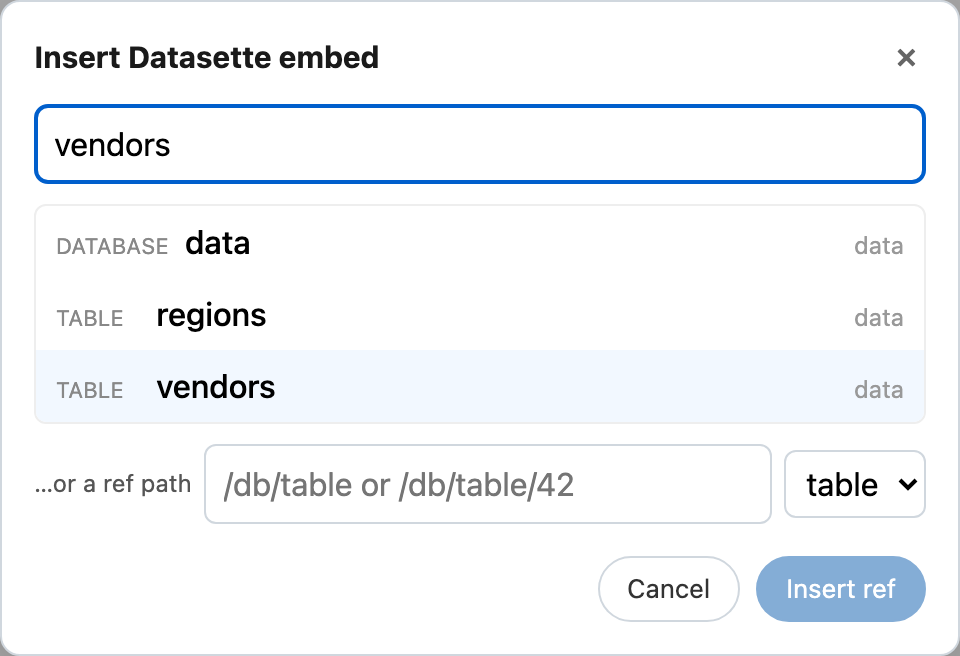
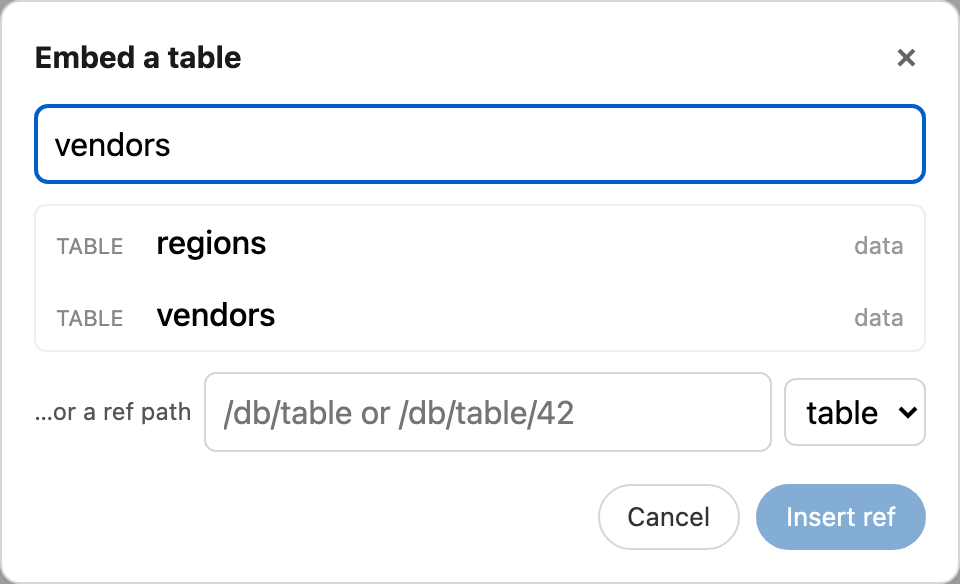
Split the native Datasette embed slash command into table/database
The `/` menu's Datasette section is reordered and the single "Datasette
embed" entry is split into "Embed a table" and "Embed a database". Each
opens the shared picker with a new kind filter (table lists tables+views,
database lists databases only), reflected in the dialog title/placeholder.
Group order is now: SQL query, Embed a table, Embed a database, Inline
value, Data source. The toolbar dropdown path is unchanged (no filter).

Provider (embeds group) sources still flow through the shared
`embedInsertSources()`; only the native entry diverges for the `/` menu.

Screenshots: add slash-menu-datasette / slash-menu-embeds (menu scrolled
to each section via a keyboard-highlight helper that survives the popup's
per-update DOM rebuild), plus a throwaway paper_embed_provider shot-plugin
so the Embeds section has content. embed-picker now triggers via `/embed`
(the old `/datasette` now selects the SQL block).

diff --git a/frontend/src/lib/slashMenu.ts b/frontend/src/lib/slashMenu.ts
@@ -387,38 +387,37 @@ export function slashMenuPopupPlugin(commands: SlashCommand[]): Plugin {
   });
 }
 
+/**
+ * Restricts the core embed picker to one resource kind. The `/` menu splits the
+ * native Datasette embed into two commands ("Embed a table" / "Embed a
+ * database") that pass this so the dialog only lists matching resources;
+ * omitted (toolbar dropdown, provider sources) lists everything.
+ */
+export type EmbedKindFilter = "table" | "database";
+
 export interface SlashCommandCallbacks {
   /** Open the image insert dialog (PaperApp-owned Svelte component). */
   openImageDialog?: () => void;
   /**
    * Open the embed picker dialog (PaperApp-owned). `sourceId` selects a
    * third-party provider source; omitted/undefined = the core Datasette source.
+   * `filter` restricts the core picker to tables/views or databases.
    */
-  openDatasetteEmbed?: (sourceId?: string) => void;
+  openDatasetteEmbed?: (sourceId?: string, filter?: EmbedKindFilter) => void;
 }
 
 /**
- * Map one shared `EmbedInsertSource` (embedProviders.ts) to its `/`-menu
- * command. The native Datasette source (id undefined) keeps its historical id
- * `block_embed` / keywords / `datasette` group; provider sources get an
- * `embed_source:<id>` id, the `embeds` group, and the `icon in TOOLBAR_ICONS`
- * fallback. The source *set* (native + providers, in order) is owned by
- * `embedInsertSources()`; only these slash-menu-specific fields live here.
+ * Map one third-party provider `EmbedInsertSource` (embedProviders.ts) to its
+ * `/`-menu command: an `embed_source:<id>` id, the `embeds` group, and the
+ * `icon in TOOLBAR_ICONS` fallback. The native Datasette embed is NOT routed
+ * through here — the `/` menu owns two dedicated table/database commands
+ * (buildSlashCommands, datasette group). Callers filter out the native
+ * `embedInsertSources()` entry (undefined id) before calling this.
  */
 function embedSlashCommand(
-  source: EmbedInsertSource,
+  source: EmbedInsertSource & { id: string },
   cb: SlashCommandCallbacks,
 ): SlashCommand {
-  if (source.id === undefined) {
-    return {
-      id: "block_embed",
-      label: source.label,
-      keywords: ["datasette", "table", "data", "embed", "database", "query"],
-      icon: source.icon && source.icon in TOOLBAR_ICONS ? source.icon : "database",
-      group: "datasette",
-      run: () => cb.openDatasetteEmbed?.(),
-    };
-  }
   const id = source.id;
   return {
     id: `embed_source:${id}`,
@@ -436,11 +435,11 @@ function embedSlashCommand(
  * without its bundle being loaded. Picking a source opens the dialog, which
  * lazy-injects that provider's bundle before searching (see embedProviders.ts /
  * DatasetteEmbedDialog). Drops the native first entry of `embedInsertSources()`
- * — the registry's hardcoded `block_embed` covers that.
+ * — the two dedicated table/database commands (buildSlashCommands) cover that.
  */
 export function providerSlashCommands(cb: SlashCommandCallbacks): SlashCommand[] {
   return embedInsertSources()
-    .filter((source) => source.id !== undefined)
+    .filter((source): source is EmbedInsertSource & { id: string } => source.id !== undefined)
     .map((source) => embedSlashCommand(source, cb));
 }
 
@@ -527,14 +526,24 @@ export function buildSlashCommands(cb: SlashCommandCallbacks = {}): SlashCommand
       // header <select> lets the user change it.
       run: runCommand(insertSqlBlock()),
     },
+    // The native Datasette embed, split into two picker entries — each opens the
+    // shared dialog filtered to its resource kind. Provider sources still come
+    // from the `providerSlashCommands` spread below (embeds group).
     {
-      id: "source",
-      label: "Data source",
-      keywords: ["source", "sql", "query", "value", "metric", "data", "inline"],
+      id: "block_embed_table",
+      label: "Embed a table",
+      keywords: ["datasette", "table", "view", "data", "embed", "query"],
+      icon: "table",
+      group: "datasette",
+      run: () => cb.openDatasetteEmbed?.(undefined, "table"),
+    },
+    {
+      id: "block_embed_database",
+      label: "Embed a database",
+      keywords: ["datasette", "database", "db", "data", "embed"],
       icon: "database",
       group: "datasette",
-      // A named query that inline ${{name.column}} values reference.
-      run: runCommand(insertSource()),
+      run: () => cb.openDatasetteEmbed?.(undefined, "database"),
     },
     {
       id: "value",
@@ -547,6 +556,15 @@ export function buildSlashCommands(cb: SlashCommandCallbacks = {}): SlashCommand
         view.dispatch(view.state.tr.insertText("${{"));
         view.focus();
       },
+    },
+    {
+      id: "source",
+      label: "Data source",
+      keywords: ["source", "sql", "query", "value", "metric", "data", "inline"],
+      icon: "database",
+      group: "datasette",
+      // A named query that inline ${{name.column}} values reference.
+      run: runCommand(insertSource()),
     },
     {
       id: "table",
@@ -591,9 +609,10 @@ export function buildSlashCommands(cb: SlashCommandCallbacks = {}): SlashCommand
       group: "media",
       run: () => cb.openImageDialog?.(),
     },
-    // Native Datasette + every provider source — same shared list the toolbar
-    // dropdown uses (embedInsertSources). The native entry is always first.
-    ...embedInsertSources().map((source) => embedSlashCommand(source, cb)),
+    // Every third-party provider source (embeds group). The native Datasette
+    // embed is handled by the two explicit datasette-group commands above, so
+    // this drops the native first entry of `embedInsertSources()`.
+    ...providerSlashCommands(cb),
   ];
   return commands;
 }

diff --git a/frontend/src/lib/DatasetteEmbedDialog.svelte b/frontend/src/lib/DatasetteEmbedDialog.svelte
@@ -22,10 +22,15 @@
   let {
     open = $bindable(false),
     source = undefined,
+    filter = undefined,
     oninsert,
   }: {
     open?: boolean;
     source?: string;
+    // Restricts the core Datasette picker to one resource kind: "table" lists
+    // tables + views, "database" lists databases. Ignored for provider sources
+    // (they own their own search); undefined lists everything.
+    filter?: "table" | "database";
     oninsert: (ref: string, mode: string) => void;
   } = $props();
 
@@ -66,7 +71,20 @@
       ? `Insert ${sourceSpec.label}`
       : source
         ? `Insert ${sourceLabel}`
-        : "Insert Datasette embed",
+        : filter === "database"
+          ? "Embed a database"
+          : filter === "table"
+            ? "Embed a table"
+            : "Insert Datasette embed",
+  );
+
+  // Core-picker search placeholder, narrowed to the active kind filter.
+  const corePlaceholder = $derived(
+    filter === "database"
+      ? "Search databases…"
+      : filter === "table"
+        ? "Search tables, views…"
+        : "Search tables, views, databases…",
   );
 
   function reset() {
@@ -129,12 +147,22 @@
       return;
     }
     const hits = await searchResources(q, 20);
-    results = hits.map((h) => ({
-      ref: h.ref,
-      label: h.label,
-      kind: h.kind,
-      secondary: h.db,
-    }));
+    results = hits
+      .filter((h) => matchesFilter(h.kind))
+      .map((h) => ({
+        ref: h.ref,
+        label: h.label,
+        kind: h.kind,
+        secondary: h.db,
+      }));
+  }
+
+  // "table" keeps tables + views (both embed as a table); "database" keeps only
+  // databases; undefined keeps everything. Only the core picker is filtered.
+  function matchesFilter(kind: string): boolean {
+    if (!filter) return true;
+    if (filter === "database") return kind === "database";
+    return kind === "table" || kind === "view";
   }
 
   function onQueryInput() {
@@ -181,7 +209,7 @@
   <input
     class="ds-embed-search"
     type="text"
-    placeholder={sourceSpec ? `Search ${sourceSpec.label}…` : "Search tables, views, databases…"}
+    placeholder={sourceSpec ? `Search ${sourceSpec.label}…` : corePlaceholder}
     bind:value={query}
     oninput={onQueryInput}
   />

diff --git a/frontend/src/lib/__tests__/slashMenu.test.ts b/frontend/src/lib/__tests__/slashMenu.test.ts
@@ -143,7 +143,8 @@ describe("section taxonomy (group tags)", () => {
     expect(byId.get("table")).toBe("media");
     expect(byId.get("image")).toBe("media");
     expect(byId.get("sql_block")).toBe("datasette");
-    expect(byId.get("block_embed")).toBe("datasette");
+    expect(byId.get("block_embed_table")).toBe("datasette");
+    expect(byId.get("block_embed_database")).toBe("datasette");
   });
 
   it("tags provider sources with the embeds group", () => {
@@ -236,9 +237,11 @@ describe("commitSlashSelection", () => {
   it("runs a dialog-backed command via its callback", () => {
     const openDatasetteEmbed = vi.fn();
     const cmds = buildSlashCommands({ openDatasetteEmbed });
-    const { view } = fakeView(stateWith([schema.node("paragraph")], 1, "/datasette", cmds));
+    // "/embed" matches the two native embed commands; index 0 = "Embed a table".
+    const { view } = fakeView(stateWith([schema.node("paragraph")], 1, "/embed", cmds));
     commitSlashSelection(cmds)(view.state, view.dispatch, view);
     expect(openDatasetteEmbed).toHaveBeenCalledTimes(1);
+    expect(openDatasetteEmbed).toHaveBeenCalledWith(undefined, "table");
   });
 
   it("inserts a table from the table command", () => {
@@ -284,6 +287,27 @@ describe("inline-value slash commands", () => {
     expect(filterSlashCommands(commands, state, "metric").some((c) => c.id === "value")).toBe(
       true,
     );
+  });
+});
+
+describe("datasette group ordering + native embed split", () => {
+  it("orders the datasette group: SQL, embed table, embed database, value, source", () => {
+    const ids = commands.filter((c) => c.group === "datasette").map((c) => c.id);
+    expect(ids).toEqual([
+      "sql_block",
+      "block_embed_table",
+      "block_embed_database",
+      "value",
+      "source",
+    ]);
+  });
+
+  it("Embed a database opens the core picker filtered to databases", () => {
+    const openDatasetteEmbed = vi.fn();
+    const cmds = buildSlashCommands({ openDatasetteEmbed });
+    const cmd = cmds.find((c) => c.id === "block_embed_database")!;
+    cmd.run({} as unknown as EditorView);
+    expect(openDatasetteEmbed).toHaveBeenCalledWith(undefined, "database");
   });
 });
 

diff --git a/frontend/src/lib/PaperApp.svelte b/frontend/src/lib/PaperApp.svelte
@@ -17,6 +17,7 @@
   import type { SourceStore } from "./sourceStore";
   import ImageDialog from "./ImageDialog.svelte";
   import DatasetteEmbedDialog from "./DatasetteEmbedDialog.svelte";
+  import type { EmbedKindFilter } from "./slashMenu";
   import CreatePageDialog from "./CreatePageDialog.svelte";
   import { insertImage } from "./image";
   import { insertDatasetteEmbed } from "./datasetteEmbed";
@@ -31,6 +32,9 @@
   // Which embed source the picker is scoped to: undefined = core Datasette,
   // otherwise a third-party provider source id.
   let embedSource = $state<string | undefined>(undefined);
+  // Restricts the core picker to one resource kind ("table" / "database"), set
+  // by the `/` menu's split embed commands; undefined = list everything.
+  let embedFilter = $state<EmbedKindFilter | undefined>(undefined);
   // Create-page dialog, driven by the `[[`-autocomplete's "Create … page"
   // row. `createResolver` bridges the imperative editor flow (which awaits a
   // doc id) to the declarative dialog: onCreatePage opens it and parks a
@@ -111,8 +115,9 @@
         onInsertImage: () => {
           imageDialogOpen = true;
         },
-        onInsertDatasetteEmbed: (sourceId) => {
+        onInsertDatasetteEmbed: (sourceId, filter) => {
           embedSource = sourceId;
+          embedFilter = filter;
           embedDialogOpen = true;
         },
         onCreatePage,
@@ -286,6 +291,7 @@
       onInsertImage={() => (imageDialogOpen = true)}
       onInsertEmbed={(sourceId) => {
         embedSource = sourceId;
+        embedFilter = undefined;
         embedDialogOpen = true;
       }}
     />
@@ -295,6 +301,7 @@
   <DatasetteEmbedDialog
     bind:open={embedDialogOpen}
     source={embedSource}
+    filter={embedFilter}
     oninsert={onEmbedInsert}
   />
   <CreatePageDialog

diff --git a/frontend/src/lib/collab.ts b/frontend/src/lib/collab.ts
@@ -88,6 +88,7 @@ import {
   slashMenuPopupPlugin,
   slashKeymap,
   type SlashCommand,
+  type EmbedKindFilter,
 } from "./slashMenu";
 import {
   cursorReporterPlugin,
@@ -202,11 +203,12 @@ export interface ConnectionOpts {
   onInsertImage?: () => void;
   /**
    * Open the embed picker dialog — invoked by the `/` slash menu's
-   * "Datasette embed" command and any third-party provider source commands
-   * (PaperApp-owned Svelte component). `sourceId` selects a provider source;
-   * omitted = the core Datasette source.
+   * "Embed a table" / "Embed a database" commands and any third-party provider
+   * source commands (PaperApp-owned Svelte component). `sourceId` selects a
+   * provider source; omitted = the core Datasette source. `filter` restricts the
+   * core picker to tables/views or databases.
    */
-  onInsertDatasetteEmbed?: (sourceId?: string) => void;
+  onInsertDatasetteEmbed?: (sourceId?: string, filter?: EmbedKindFilter) => void;
   /**
    * Create a new paper titled `title` from the `[[`-autocomplete's
    * "Create … page" row. The host owns the dialog + the
@@ -870,7 +872,8 @@ export class EditorConnection {
     this.sourceStore = new SourceStore();
     this.slashCommands = buildSlashCommands({
       openImageDialog: () => this.opts.onInsertImage?.(),
-      openDatasetteEmbed: (sourceId) => this.opts.onInsertDatasetteEmbed?.(sourceId),
+      openDatasetteEmbed: (sourceId, filter) =>
+        this.opts.onInsertDatasetteEmbed?.(sourceId, filter),
     });
     this.installNetworkListeners();
     this.start();

diff --git a/frontend/scripts/shot-plugins/embed_provider.py b/frontend/scripts/shot-plugins/embed_provider.py
@@ -1,0 +1,34 @@
+"""Throwaway third-party embed provider for the screenshot harness.
+
+Populates the `/` slash menu's "Embeds" section (and the toolbar embed
+dropdown) with example provider sources so the `slash-menu-embeds` shot has
+content to capture. Loaded via `datasette --plugins-dir` alongside the actor
+display-name plugin. NOT shipped — screenshot/dev use only.
+
+Only the manifest's `sources` matter here: the `/` menu lists them straight
+from `page_data` before any bundle loads (embedProviders.ts). The shots only
+*display* the menu — they never open this provider's picker — so
+`frontend_assets` returns nothing (no bundle to serve).
+"""
+
+from datasette import hookimpl
+
+
+class _ShotEmbedProvider:
+    kind = "place-list"
+    label = "Places"
+    ref_prefixes = ["/-/places/"]
+    # Icons must be TOOLBAR_ICONS keys (icons.ts) or the `/` menu falls back to
+    # the database icon; "table" / "eye" both exist and render distinctly.
+    sources = [
+        {"id": "place-list", "label": "Places map", "icon": "table"},
+        {"id": "place-search", "label": "Place search", "icon": "eye"},
+    ]
+
+    def frontend_assets(self, datasette):
+        return {}
+
+
+@hookimpl
+def paper_embed_provider(datasette):
+    return _ShotEmbedProvider()
